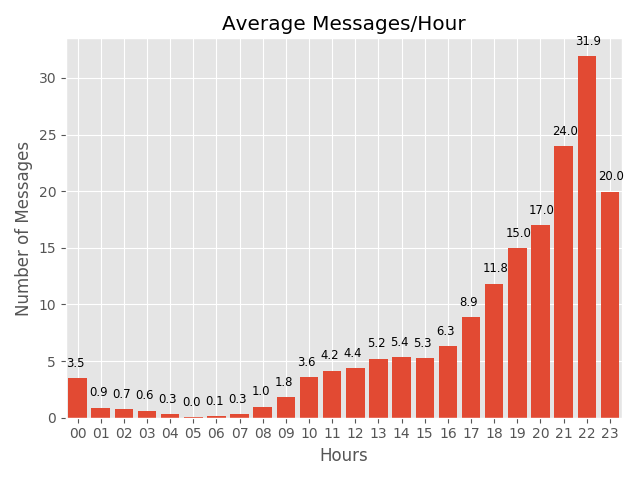
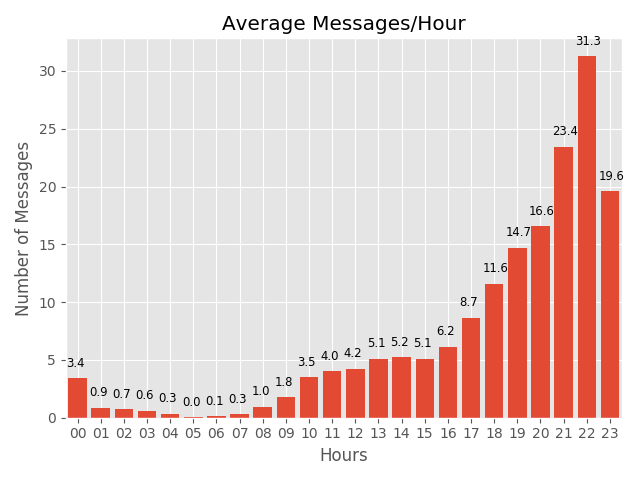
Activity plot added and removed 'photos' from analysis

diff --git a/FacebookConversationAnalysis.py b/FacebookConversationAnalysis.py
@@ -2,6 +2,8 @@
 import math
 import pickle
 import ntpath
+import matplotlib
+import numpy as np
 import matplotlib.pyplot as plt
 from matplotlib import rcParams
 from bs4 import BeautifulSoup
@@ -10,7 +12,7 @@ from dateutil import relativedelta
 from tqdm import tqdm as tq
 from collections import Counter
 
-
+matplotlib.use('Qt5Agg')
 plt.style.use('ggplot')
 rcParams.update({'figure.autolayout': True})
 
@@ -26,7 +28,6 @@ class FacebookConversationAnalysis:
                              'pickles/dates.pickle', 'pickles/times.pickle']
 
         if get_data:
-            self.extract_data_from_html_file(html_file)
             data = self.extract_data_from_html_file(html_file)
 
             for n, name in enumerate(pickle_file_names):
@@ -36,8 +37,9 @@ class FacebookConversationAnalysis:
             for name in pickle_file_names:
                 data.append(self.load_pickle(name))
 
-        self.data = data
-        self.total_msgs = len(self.data[0])
+        self.users, self.msgs, self.dates, self.times = data[0], data[1], data[2], data[3]
+
+        self.total_msgs = len(self.msgs)
 
     # Method: Used to 'pickle' a list of data
     @staticmethod
@@ -73,39 +75,41 @@ class FacebookConversationAnalysis:
                 date = str(full_date.strftime(self.date_format))
                 time = str(full_date.strftime(self.time_format))
 
-                users.append(user)
-                msgs.append(msg)
-                dates.append(date)
-                times.append(time)
+                # Ignore 'pictures'
+                if msg != 'None':
+                    users.append(user)
+                    msgs.append(msg)
+                    dates.append(date)
+                    times.append(time)
 
         print('[INFO]: Data extracted from {}'.format(html_file))
         return [users, msgs, dates, times]
 
     # Method: Used to calculate the number of messages by each user
-    def calculate_total_messages_per_user(self, users):
-        msgs_freq = dict(Counter(users))
+    def calculate_total_messages_per_user(self):
+        msgs_freq = dict(Counter(self.users))
         unique_users, messages_per_user = zip(*sorted(msgs_freq.items()))
 
         for i in range(len(unique_users)):
             msgs_percentage = (messages_per_user[i] / self.total_msgs) * 100
-            print('[INFO]: Messages sent by {}: {} ({:.2f}%)'.format(unique_users[i], messages_per_user[i], msgs_percentage))
+            print('[INFO]: Messages sent by {}: {} ({:.1f}%)'.format(unique_users[i], messages_per_user[i], msgs_percentage))
 
         return unique_users, messages_per_user
 
     # Method: Used to calculate the average number of words per message
-    def calculate_average_words_per_message(self, msgs):
+    def calculate_average_words_per_message(self):
         total_words = 0
 
-        for msg in msgs:
+        for msg in self.msgs:
             total_words += len(msg.split())
 
         avg_words_per_msg = float(total_words / self.total_msgs)
         print('[INFO]: Average Words/Message: {:.2f}'.format(avg_words_per_msg))
 
     # Method: Used to calculate the average number of messages per unit time
-    def calculate_average_messages_per_unit_time(self, dates, unit_time='day'):
-        first_date = dt.strptime(dates[-1], self.date_format)
-        last_date = dt.strptime(dates[0], self.date_format)
+    def calculate_average_messages_per_unit_time(self, unit_time='day'):
+        first_date = dt.strptime(self.dates[-1], self.date_format)
+        last_date = dt.strptime(self.dates[0], self.date_format)
 
         delta_dt = last_date - first_date
         delta_du = relativedelta.relativedelta(last_date, first_date)
@@ -122,13 +126,13 @@ class FacebookConversationAnalysis:
             else:
                 interval = delta_du.years
 
-            avg_messages_per_day = float(self.total_msgs / interval)
-            print('[INFO]: Average Messages/{}: {:.2f}'.format(unit_time.title(), avg_messages_per_day))
+            avg_messages_per_unit_time = float(self.total_msgs / interval)
+            print('[INFO]: Average Messages/{}: {:.1f}'.format(unit_time.title(), avg_messages_per_unit_time))
+            return avg_messages_per_unit_time
 
     # Method: Used to find the day with most
-    @staticmethod
-    def find_most_active_day(dates):
-        dates_freq = dict(Counter(dates))
+    def find_most_active_day(self):
+        dates_freq = dict(Counter(self.dates))
 
         date = max(dates_freq, key=dates_freq.get)
         num_msgs = max(dates_freq.values())
@@ -138,12 +142,12 @@ class FacebookConversationAnalysis:
               .format(date, num_msgs, seconds_per_msg))
 
     # Method: Used to plot the total messages per hour
-    def plot_avg_msgs_per_hour(self, dates, times, save_path='AverageMessagesPerHour.png',
-                               title='Average Messages/Hour', x_label='Hours', y_label='Number of Messages'):
-        delta = dt.strptime(dates[0], self.date_format) - dt.strptime(dates[-1], self.date_format)
+    def plot_avg_msgs_per_hour(self, save_path='AverageMessagesPerHour.png', title='Average Messages/Hour',
+                               x_label='Hours', y_label='Number of Messages'):
+        delta = dt.strptime(self.dates[0], self.date_format) - dt.strptime(self.dates[-1], self.date_format)
 
         # Extract the hour from the time
-        hrs = [time[:2] for time in times]
+        hrs = [time[:2] for time in self.times]
 
         # Calculate total number of messages per hour
         hours_freq = dict(Counter(hrs))
@@ -165,14 +169,14 @@ class FacebookConversationAnalysis:
         plt.show()
 
     # Method: Used to plot the total messages per hour
-    def plot_avg_msgs_per_weekday(self, dates, save_path='AverageMessagesPerWeekday.png',
-                                  title='Average Messages/Weekday', x_label='Weekday', y_label='Number of Messages'):
+    def plot_avg_msgs_per_weekday(self, save_path='AverageMessagesPerWeekday.png', title='Average Messages/Weekday',
+                                  x_label='Weekday', y_label='Number of Messages'):
         msgs_per_weekday = [0] * 7
         weekdays = ['Monday', 'Tuesday', 'Wednesday', 'Thursday', 'Friday', 'Saturday', 'Sunday']
 
         # Get dates and associated times for each day of the week
-        for i in range(len(dates)):
-            date = dt.strptime(dates[i], self.date_format)
+        for i in range(len(self.dates)):
+            date = dt.strptime(self.dates[i], self.date_format)
 
             if date.weekday() == 0:
                 msgs_per_weekday[date.weekday()] += 1
@@ -204,45 +208,65 @@ class FacebookConversationAnalysis:
         plt.show()
 
     # Method: Used to plot the ratio of total messages sent per user
-    def plot_ratio_of_total_messages_per_user(self, users, save_path='TotalMessagesPerUser.png',
-                                              title='Total Messages/User'):
-        usrs, msgs = self.calculate_total_messages_per_user(users)
+    def plot_ratio_of_total_messages_per_user(self, save_path='TotalMessagesPerUser.png', title='Total Messages/User'):
+        usrs, msgs = self.calculate_total_messages_per_user()
+        usrs_first_name = [usr.split()[0] for usr in usrs]
 
         # Pie chart
         plt.pie(msgs, shadow=True, explode=(0.05, 0.05), autopct='%1.1f%%')
-        plt.legend(labels=usrs, loc="best")
+        plt.legend(labels=usrs_first_name, loc="best")
         plt.axis('equal')
         plt.title(title)
         plt.savefig(save_path)
         plt.show()
 
-    def test(self, dates, times, users, messages):
-        for i, date in enumerate(dates):
-            if date == '28/03/15':
-                print('[{}] {}: {}'.format(times[i], users[i], messages[i]))
+    # Method: Used to plot the daily activity over the full time period
+    def plot_activity(self, save_path='Activity.png', title='Total Messages/Day', x_label='Weekday',
+                      y_label='Date'):
+        dates = [dt.strptime(date, self.date_format) for date in self.dates]
+        dates = [date_dt.strftime('%Y/%m/%d') for date_dt in dates]
+        dates = sorted(dates, key=lambda x: dt.strptime(x, '%Y/%m/%d'))
+
+        dates_freq = dict(Counter(dates))
+        unique_dates, msgs_per_date = zip(*sorted(dates_freq.items()))
+
+        unique_dates = [date[:7] for date in unique_dates]
+
+        def moving_average(interval, window_size):
+            window = np.ones(int(window_size)) / float(window_size)
+            return np.convolve(interval, window, 'same')
+
+        # Plot average number of messages per hour
+        plt.plot(range(len(msgs_per_date)), msgs_per_date)
+        plt.plot(range(len(msgs_per_date)), moving_average(msgs_per_date, 30))
+        plt.axhline(y=self.calculate_average_messages_per_unit_time('day'), color='g')
+        plt.xticks(range(len(unique_dates)), unique_dates[0::30], rotation=60)
+        plt.locator_params(axis='x', nbins=len(unique_dates[0::60]))
+        plt.xlim([-0.5, len(unique_dates) - 0.5])
+        plt.xlabel(x_label)
+        plt.ylabel(y_label)
+        plt.title(title)
+        plt.legend(labels=['Daily Total', 'Rolling Average', 'Average'], loc='best')
+        plt.savefig(save_path)
+        plt.show()
 
 
 if __name__ == '__main__':
     # Create instance and get data
     fb = FacebookConversationAnalysis('171.html')
-    fb_data = fb.data
-
-    # Split data
-    users, msgs, dates, times = fb_data[0], fb_data[1], fb_data[2], fb_data[3]
 
     # Calculate some statistics
-    # fb.calculate_total_messages_per_user(users)
-    # fb.calculate_average_words_per_message(msgs)
-    # fb.calculate_average_messages_per_unit_time(dates, 'day')
-    # fb.calculate_average_messages_per_unit_time(dates, 'week')
-    # fb.calculate_average_messages_per_unit_time(dates, 'month')
-    # fb.calculate_average_messages_per_unit_time(dates, 'year')
-    # fb.find_most_active_day(dates)
+    fb.calculate_total_messages_per_user()
+    fb.calculate_average_words_per_message()
+    fb.calculate_average_messages_per_unit_time('day')
+    fb.calculate_average_messages_per_unit_time('week')
+    fb.calculate_average_messages_per_unit_time('month')
+    fb.calculate_average_messages_per_unit_time('year')
+    fb.find_most_active_day()
 
     # Plot some graphs
-    # fb.plot_avg_msgs_per_hour(dates, times)
-    # fb.plot_avg_msgs_per_weekday(dates)
-    # fb.plot_ratio_of_total_messages_per_user(users)
-
-    fb.test(dates, times, users, msgs)
+    fb.plot_avg_msgs_per_hour()
+    fb.plot_avg_msgs_per_weekday()
+    fb.plot_ratio_of_total_messages_per_user()
+    fb.plot_activity()
 
